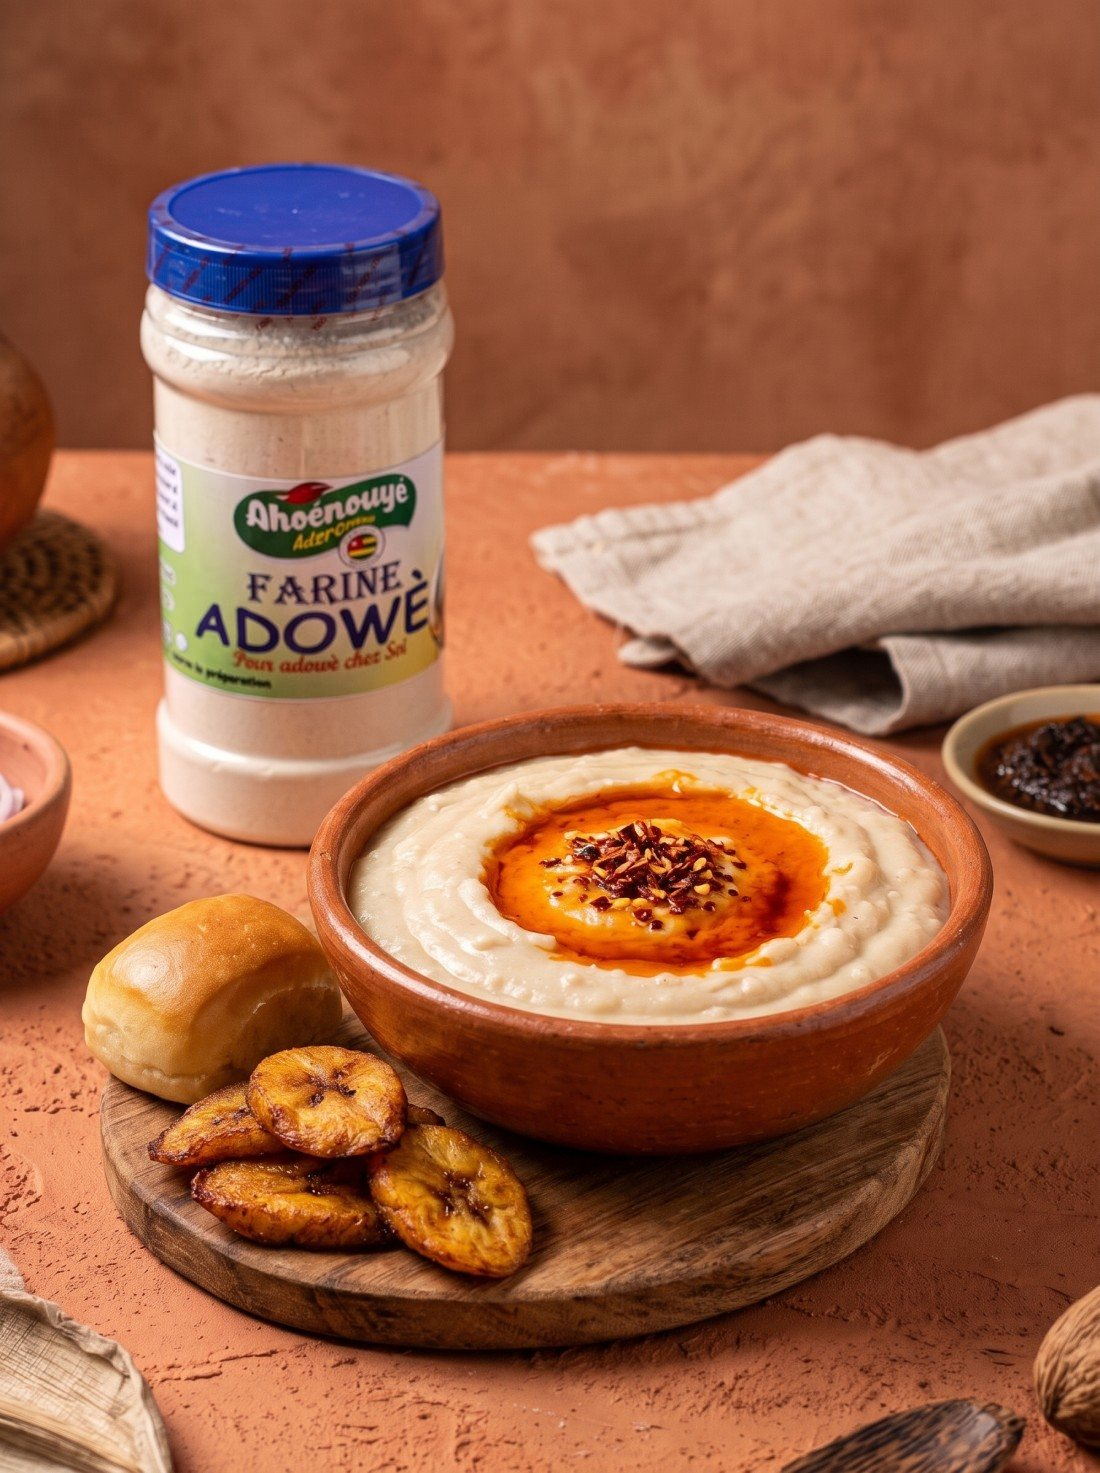
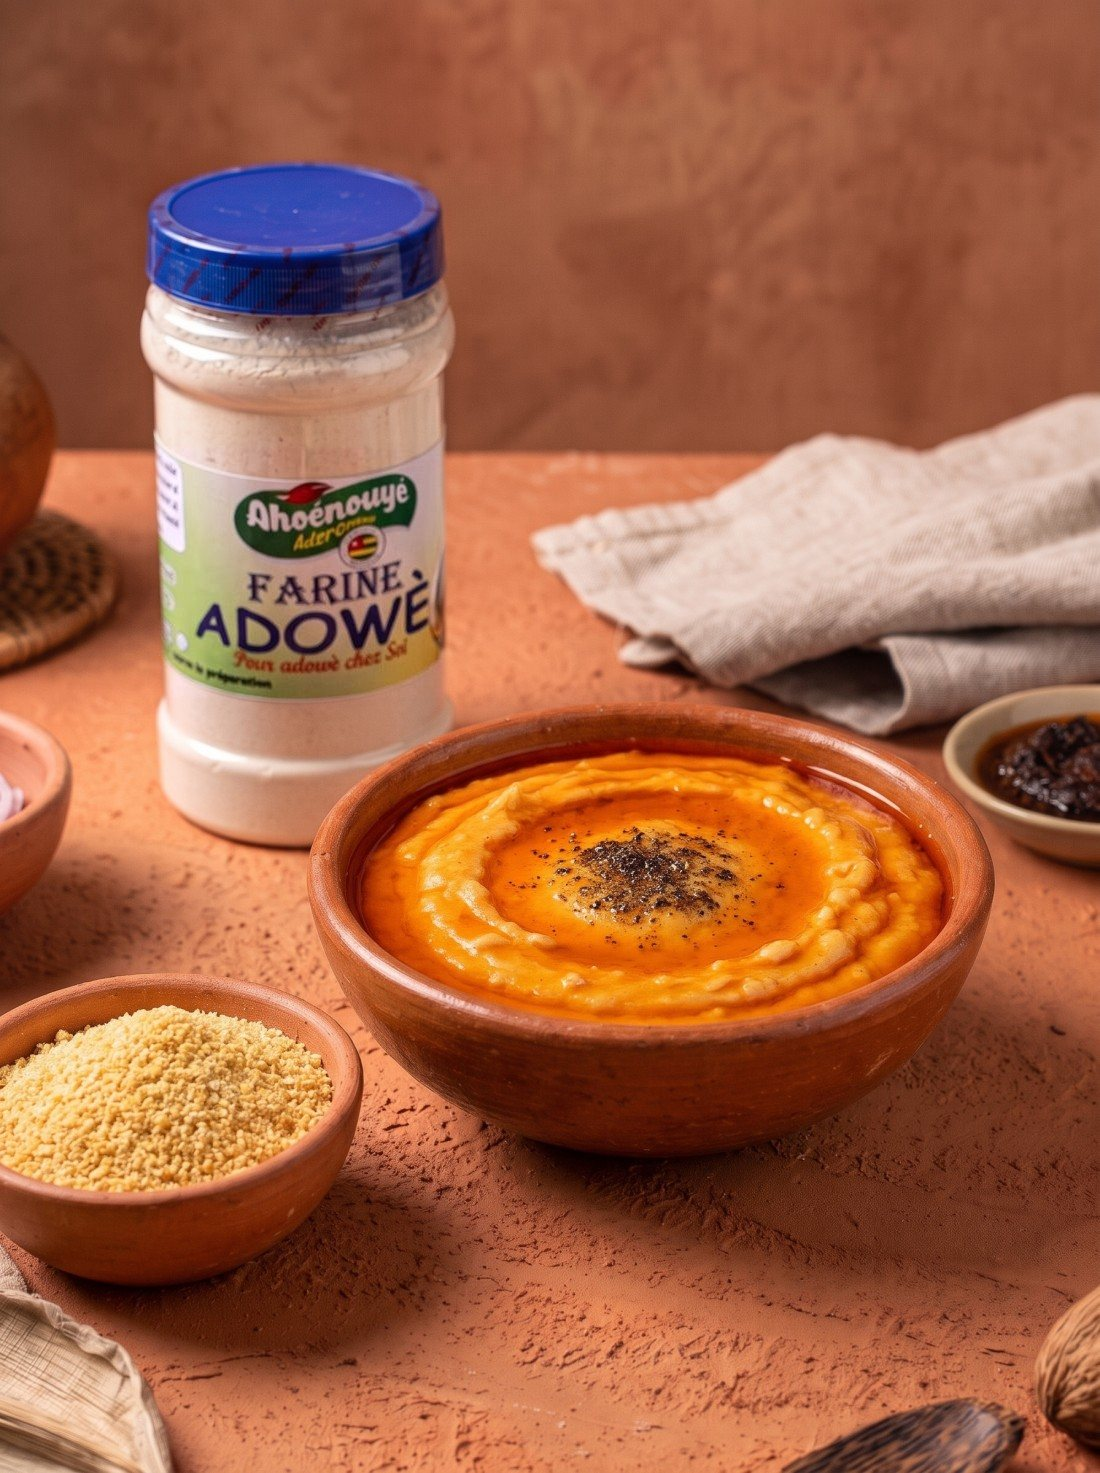
Adowè : huile rouge sur toute la purée, épice noire, bol de gari (sans pain ni plantain)

diff --git a/index.html b/index.html
@@ -574,7 +574,7 @@ footer a:hover{color:#fff}
         </div>
       </article>
       <article class="card rv" data-cat="plat">
-        <div class="img"><img src="assets/adowe.jpg?v=2" alt="Farine Adowè et adowè : purée de haricots blancs à l'huile rouge, plantain frit et pain" loading="lazy"><span class="pill">Haricot</span></div>
+        <div class="img"><img src="assets/adowe.jpg?v=3" alt="Farine Adowè et adowè : purée de haricots blancs couverte d'huile rouge et d'épice noire, avec un bol de gari" loading="lazy"><span class="pill">Haricot</span></div>
         <div class="body">
           <h3>Farine d'Adowè</h3>
           <div class="for">Pour : adowè</div>
